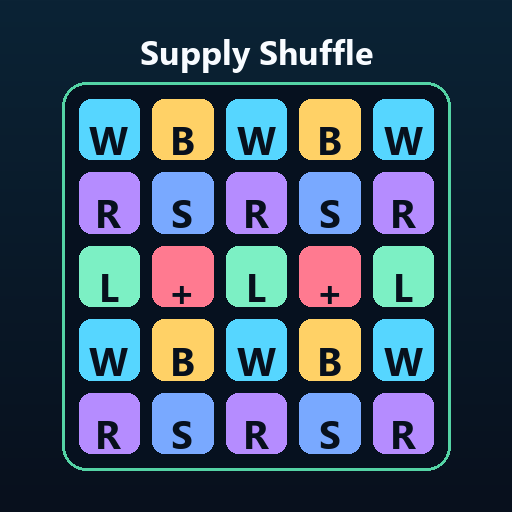
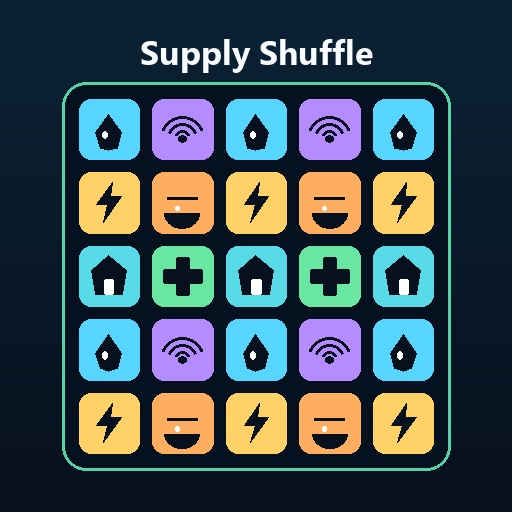
Use abstract Supply Shuffle tile symbols

Changed region(s): [[0.1562, 0.1875, 0.875, 0.9062]]

diff --git a/games/supply-shuffle/module.js b/games/supply-shuffle/module.js
@@ -6,12 +6,12 @@ const CLEAR_SECONDS = 0.24;
 const DROP_SECONDS = 0.24;
 
 const TILE_DEFINITIONS = {
-    water: { label: "Water", short: "W", color: "#56d6ff", accent: "#c9f4ff" },
-    medkit: { label: "Med Kit", short: "+", color: "#ff7a90", accent: "#ffd7df" },
-    radio: { label: "Radio", short: "R", color: "#b58cff", accent: "#eadcff" },
-    battery: { label: "Battery", short: "B", color: "#ffd166", accent: "#fff1b8" },
-    flashlight: { label: "Light", short: "L", color: "#7cf0c4", accent: "#dbfff1" },
-    shield: { label: "Shield", short: "S", color: "#79a9ff", accent: "#d9e7ff" },
+    water: { label: "Water", short: "Water", symbol: "droplet", color: "#56d6ff", accent: "#c9f4ff" },
+    medical: { label: "Medical", short: "Medical", symbol: "cross", color: "#68e6a2", accent: "#dfffea" },
+    power: { label: "Power", short: "Power", symbol: "bolt", color: "#ffd166", accent: "#fff1b8" },
+    comms: { label: "Comms", short: "Comms", symbol: "signal", color: "#b58cff", accent: "#eadcff" },
+    shelter: { label: "Shelter", short: "Shelter", symbol: "shelter", color: "#57d9e6", accent: "#d8fbff" },
+    food: { label: "Food", short: "Food", symbol: "bowl", color: "#ffad5f", accent: "#ffe0bd" },
 };
 
 const LEVEL_DEFINITIONS = [
@@ -20,7 +20,7 @@ const LEVEL_DEFINITIONS = [
         level: 1,
         title: "Supply Sort",
         moves: 18,
-        tileTypes: ["water", "medkit", "radio", "battery", "flashlight"],
+        tileTypes: ["water", "medical", "power", "comms", "shelter"],
         objectives: [
             { type: "collect", tile: "water", count: 10 },
             { type: "score", value: 600 },
@@ -32,10 +32,10 @@ const LEVEL_DEFINITIONS = [
         level: 2,
         title: "Kit Check",
         moves: 20,
-        tileTypes: ["water", "medkit", "radio", "battery", "flashlight"],
+        tileTypes: ["water", "medical", "power", "comms", "shelter"],
         objectives: [
-            { type: "collect", tile: "medkit", count: 8 },
-            { type: "collect", tile: "battery", count: 8 },
+            { type: "collect", tile: "medical", count: 8 },
+            { type: "collect", tile: "power", count: 8 },
             { type: "score", value: 950 },
         ],
         specialTiles: { lineClear: false, burst: false },
@@ -45,9 +45,9 @@ const LEVEL_DEFINITIONS = [
         level: 3,
         title: "Lane Clear",
         moves: 21,
-        tileTypes: ["water", "medkit", "radio", "battery", "flashlight", "shield"],
+        tileTypes: ["water", "medical", "power", "comms", "shelter", "food"],
         objectives: [
-            { type: "collect", tile: "radio", count: 10 },
+            { type: "collect", tile: "comms", count: 10 },
             { type: "score", value: 1300 },
         ],
         specialTiles: { lineClear: true, burst: false },
@@ -57,10 +57,10 @@ const LEVEL_DEFINITIONS = [
         level: 4,
         title: "Supply Burst",
         moves: 22,
-        tileTypes: ["water", "medkit", "radio", "battery", "flashlight", "shield"],
+        tileTypes: ["water", "medical", "power", "comms", "shelter", "food"],
         objectives: [
-            { type: "collect", tile: "flashlight", count: 10 },
-            { type: "collect", tile: "shield", count: 7 },
+            { type: "collect", tile: "shelter", count: 10 },
+            { type: "collect", tile: "food", count: 7 },
             { type: "score", value: 1700 },
         ],
         specialTiles: { lineClear: true, burst: true },
@@ -70,10 +70,10 @@ const LEVEL_DEFINITIONS = [
         level: 5,
         title: "Route Ready",
         moves: 24,
-        tileTypes: ["water", "medkit", "radio", "battery", "flashlight", "shield"],
+        tileTypes: ["water", "medical", "power", "comms", "shelter", "food"],
         objectives: [
             { type: "collect", tile: "water", count: 12 },
-            { type: "collect", tile: "radio", count: 10 },
+            { type: "collect", tile: "comms", count: 10 },
             { type: "score", value: 2200 },
         ],
         specialTiles: { lineClear: true, burst: true },
@@ -692,7 +692,7 @@ export function mountGame(session, options = {}) {
     function syncHud() {
         const collectText = level.objectives
             .filter((objective) => objective.type === "collect")
-            .map((objective) => `${TILE_DEFINITIONS[objective.tile].short} ${Math.min(objective.count, collectProgress[objective.tile] || 0)}/${objective.count}`)
+            .map((objective) => `${TILE_DEFINITIONS[objective.tile].label} ${Math.min(objective.count, collectProgress[objective.tile] || 0)}/${objective.count}`)
             .join("  ");
         const scoreObjective = level.objectives.find((objective) => objective.type === "score");
         const scoreText = scoreObjective ? `Target ${Math.min(scoreObjective.value, score)}/${scoreObjective.value}` : "";
@@ -826,11 +826,7 @@ export function mountGame(session, options = {}) {
         ctx.fill();
         ctx.globalAlpha = 1;
 
-        ctx.fillStyle = "#07101d";
-        ctx.font = `900 ${Math.max(16, Math.floor(size * 0.46))}px Segoe UI, sans-serif`;
-        ctx.textAlign = "center";
-        ctx.textBaseline = "middle";
-        drawTileSymbol(definition.short, size);
+        drawTileSymbol(definition.symbol, size);
 
         if (tile.special) {
             drawSpecialMark(tile.special, size, definition.accent);
@@ -839,38 +835,119 @@ export function mountGame(session, options = {}) {
     }
 
     function drawTileSymbol(symbol, size) {
-        if (symbol === "+") {
-            ctx.lineWidth = Math.max(3, size * 0.09);
-            ctx.strokeStyle = "#07101d";
+        const ink = "#07101d";
+        const light = "rgba(255, 255, 255, .34)";
+        ctx.save();
+        ctx.fillStyle = ink;
+        ctx.strokeStyle = ink;
+        ctx.lineWidth = Math.max(3, size * 0.085);
+        ctx.lineCap = "round";
+        ctx.lineJoin = "round";
+
+        if (symbol === "droplet") {
             ctx.beginPath();
-            ctx.moveTo(-size * 0.2, 0);
-            ctx.lineTo(size * 0.2, 0);
-            ctx.moveTo(0, -size * 0.2);
-            ctx.lineTo(0, size * 0.2);
+            ctx.moveTo(0, -size * 0.3);
+            ctx.bezierCurveTo(size * 0.24, -size * 0.06, size * 0.29, size * 0.1, size * 0.29, size * 0.2);
+            ctx.bezierCurveTo(size * 0.29, size * 0.42, size * 0.12, size * 0.54, 0, size * 0.54);
+            ctx.bezierCurveTo(-size * 0.12, size * 0.54, -size * 0.29, size * 0.42, -size * 0.29, size * 0.2);
+            ctx.bezierCurveTo(-size * 0.29, size * 0.1, -size * 0.24, -size * 0.06, 0, -size * 0.3);
+            ctx.fill();
+            ctx.fillStyle = light;
+            ctx.beginPath();
+            ctx.ellipse(-size * 0.08, size * 0.08, size * 0.07, size * 0.13, -0.5, 0, Math.PI * 2);
+            ctx.fill();
+        } else if (symbol === "cross") {
+            const arm = size * 0.16;
+            const long = size * 0.43;
+            roundRect(-arm, -long, arm * 2, long * 2, arm * 0.34);
+            ctx.fill();
+            roundRect(-long, -arm, long * 2, arm * 2, arm * 0.34);
+            ctx.fill();
+        } else if (symbol === "bolt") {
+            ctx.beginPath();
+            ctx.moveTo(size * 0.08, -size * 0.45);
+            ctx.lineTo(-size * 0.26, size * 0.05);
+            ctx.lineTo(-size * 0.02, size * 0.05);
+            ctx.lineTo(-size * 0.12, size * 0.45);
+            ctx.lineTo(size * 0.28, -size * 0.12);
+            ctx.lineTo(size * 0.04, -size * 0.12);
+            ctx.closePath();
+            ctx.fill();
+        } else if (symbol === "signal") {
+            ctx.fillStyle = ink;
+            ctx.beginPath();
+            ctx.arc(0, size * 0.22, size * 0.08, 0, Math.PI * 2);
+            ctx.fill();
+            for (let index = 0; index < 3; index += 1) {
+                const radius = size * (0.18 + index * 0.15);
+                ctx.beginPath();
+                ctx.arc(0, size * 0.22, radius, Math.PI * 1.12, Math.PI * 1.88);
+                ctx.stroke();
+            }
+        } else if (symbol === "shelter") {
+            ctx.beginPath();
+            ctx.moveTo(0, -size * 0.44);
+            ctx.lineTo(size * 0.38, -size * 0.12);
+            ctx.lineTo(size * 0.3, size * 0.4);
+            ctx.lineTo(-size * 0.3, size * 0.4);
+            ctx.lineTo(-size * 0.38, -size * 0.12);
+            ctx.closePath();
+            ctx.fill();
+            ctx.fillStyle = "rgba(255, 255, 255, .22)";
+            roundRect(-size * 0.11, size * 0.06, size * 0.22, size * 0.34, size * 0.04);
+            ctx.fill();
+        } else if (symbol === "bowl") {
+            ctx.beginPath();
+            ctx.moveTo(-size * 0.38, -size * 0.04);
+            ctx.quadraticCurveTo(0, size * 0.5, size * 0.38, -size * 0.04);
+            ctx.closePath();
+            ctx.fill();
+            ctx.strokeStyle = ink;
+            ctx.lineWidth = Math.max(3, size * 0.075);
+            ctx.beginPath();
+            ctx.moveTo(-size * 0.32, -size * 0.08);
+            ctx.lineTo(size * 0.32, -size * 0.08);
             ctx.stroke();
-            return;
+            ctx.fillStyle = light;
+            ctx.beginPath();
+            ctx.arc(-size * 0.1, size * 0.12, size * 0.055, 0, Math.PI * 2);
+            ctx.arc(size * 0.09, size * 0.1, size * 0.045, 0, Math.PI * 2);
+            ctx.fill();
         }
-        ctx.fillText(symbol, 0, size * 0.02);
+        ctx.restore();
     }
 
     function drawSpecialMark(special, size, color) {
         ctx.save();
-        ctx.globalAlpha = 0.95;
+        const badgeX = size * 0.26;
+        const badgeY = size * 0.28;
+        const badgeSize = Math.max(13, size * 0.26);
+        ctx.globalAlpha = 0.98;
+        ctx.fillStyle = "rgba(7, 16, 29, .9)";
+        ctx.strokeStyle = color;
+        ctx.lineWidth = Math.max(1.5, size * 0.035);
+        roundRect(badgeX - badgeSize / 2, badgeY - badgeSize / 2, badgeSize, badgeSize, badgeSize * 0.25);
+        ctx.fill();
+        ctx.stroke();
         ctx.strokeStyle = color;
         ctx.fillStyle = color;
-        ctx.lineWidth = Math.max(2, size * 0.06);
+        ctx.lineWidth = Math.max(2, badgeSize * 0.16);
+        ctx.lineCap = "round";
+        ctx.lineJoin = "round";
         if (special === "line") {
             ctx.beginPath();
-            ctx.moveTo(-size * 0.28, size * 0.31);
-            ctx.lineTo(size * 0.28, size * 0.31);
+            ctx.moveTo(badgeX - badgeSize * 0.26, badgeY - badgeSize * 0.12);
+            ctx.lineTo(badgeX + badgeSize * 0.26, badgeY - badgeSize * 0.12);
+            ctx.moveTo(badgeX - badgeSize * 0.26, badgeY + badgeSize * 0.12);
+            ctx.lineTo(badgeX + badgeSize * 0.26, badgeY + badgeSize * 0.12);
             ctx.stroke();
         } else {
             ctx.beginPath();
             for (let index = 0; index < 6; index += 1) {
                 const angle = -Math.PI / 2 + index * Math.PI / 3;
-                const radius = index % 2 === 0 ? size * 0.18 : size * 0.08;
-                const x = Math.cos(angle) * radius;
-                const y = Math.sin(angle) * radius + size * 0.31;
+                const radius = index % 2 === 0 ? badgeSize * 0.34 : badgeSize * 0.15;
+                const x = badgeX + Math.cos(angle) * radius;
+                const y = badgeY + Math.sin(angle) * radius;
                 if (index === 0) {
                     ctx.moveTo(x, y);
                 } else {
@@ -1089,7 +1166,7 @@ export function mountGame(session, options = {}) {
     function createGuaranteedBoard(currentLevel) {
         const types = currentLevel.tileTypes.length >= 5
             ? currentLevel.tileTypes
-            : ["water", "medkit", "radio", "battery", "flashlight"];
+            : ["water", "medical", "power", "comms", "shelter"];
         const result = Array.from({ length: BOARD_ROWS }, () => Array(BOARD_COLUMNS).fill(null));
         for (let row = 0; row < BOARD_ROWS; row += 1) {
             for (let column = 0; column < BOARD_COLUMNS; column += 1) {
@@ -1102,7 +1179,7 @@ export function mountGame(session, options = {}) {
 
     function seedGuaranteedMove(currentLevel, targetBoard = board) {
         const primary = currentLevel.tileTypes[0] || "water";
-        const secondary = currentLevel.tileTypes.find((type) => type !== primary) || "medkit";
+        const secondary = currentLevel.tileTypes.find((type) => type !== primary) || "medical";
         [
             { row: 0, column: 0, type: primary },
             { row: 0, column: 1, type: secondary },
@@ -1166,6 +1243,17 @@ export function mountGame(session, options = {}) {
                 done = true;
                 syncHud();
                 options.onStateChange?.("gameOver", { detail: `Score ${score}` });
+            },
+            forceSpecial: (special = "line") => {
+                const cell = { row: Math.floor(BOARD_ROWS / 2), column: Math.floor(BOARD_COLUMNS / 2) };
+                const tile = getTile(cell);
+                if (!tile) {
+                    return false;
+                }
+                tile.special = special === "burst" ? "burst" : "line";
+                tile.pulse = 0.4;
+                draw();
+                return true;
             },
         };
     }

diff --git a/docs/supply-shuffle-game-proposal.md b/docs/supply-shuffle-game-proposal.md
@@ -109,16 +109,16 @@ Initial v1 rules:
 - Level completes when objective is met before moves run out.
 - Level fails when moves reach 0 before objective completion.
 
-Recommended first tile set:
+Recommended first tile language:
 
-- water
-- med kit
-- radio
-- battery
-- flashlight
-- shield
+- Water: blue droplet
+- Medical: green cross
+- Power: yellow lightning bolt
+- Comms: purple signal or radio wave
+- Shelter: cyan shield or house silhouette
+- Food: orange box or bowl
 
-Avoid using real PBB operational icons if the game treatment makes them too playful. Generated game-specific supply symbols are preferred.
+Tiles should not use detailed supply-object thumbnails. Use bold abstract symbols with simple geometry, a unique color, and a unique silhouette for each tile category. Each symbol must remain readable at roughly `32-48px` tile sizes on mobile. Avoid using real PBB operational icons if the game treatment makes them too playful. Generated game-specific abstract symbols are preferred.
 
 ## Scoring
 
@@ -147,7 +147,7 @@ const LEVEL_DEFINITIONS = [
     title: "Supply Sort",
     board: { columns: 7, rows: 7 },
     moves: 18,
-    tileTypes: ["water", "medkit", "radio", "battery", "flashlight"],
+    tileTypes: ["water", "medical", "power", "comms", "shelter"],
     objectives: [
       { type: "collect", tile: "water", count: 10 },
       { type: "score", value: 600 }
@@ -276,7 +276,7 @@ Draw order:
 6. selection outline or hint pulse
 7. overlay states
 
-Tiles should have clear silhouettes and color differences. Do not rely on color alone; include simple symbols.
+Tiles should have clear silhouettes and color differences. Do not rely on color alone; include simple abstract symbols. Avoid tiny text or initials as the primary tile identity, and do not use detailed literal item art that becomes unreadable on a small `7 x 7` mobile board.
 
 ## State Flow
 